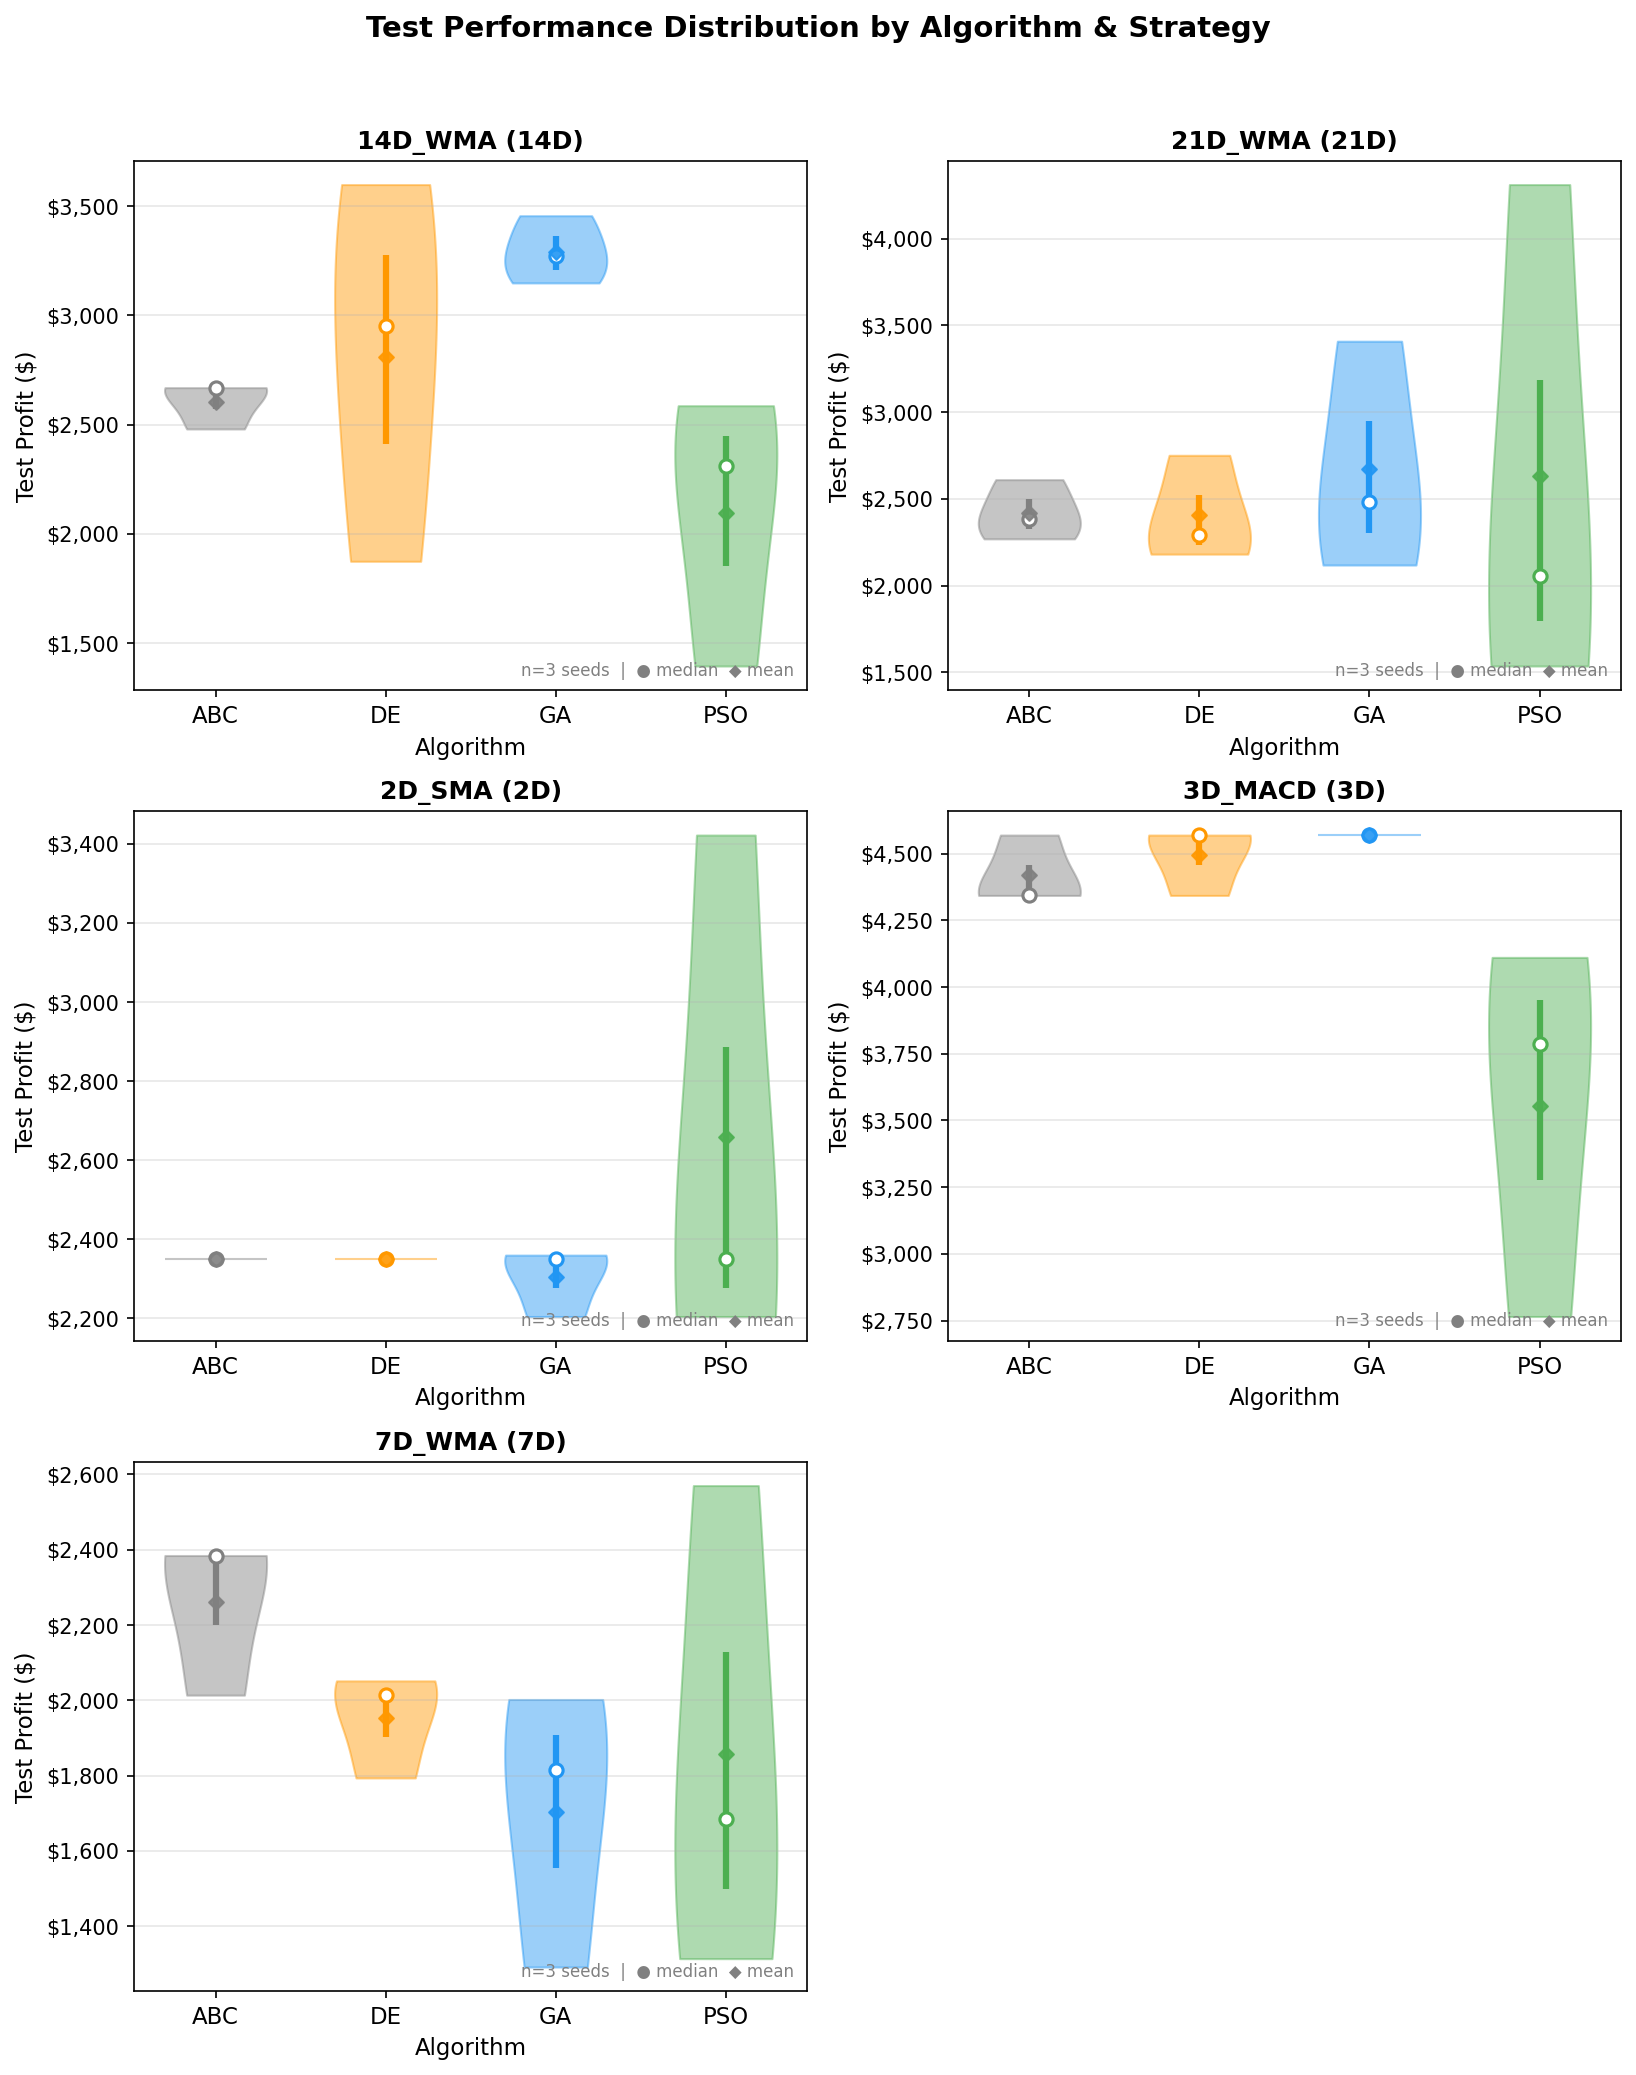
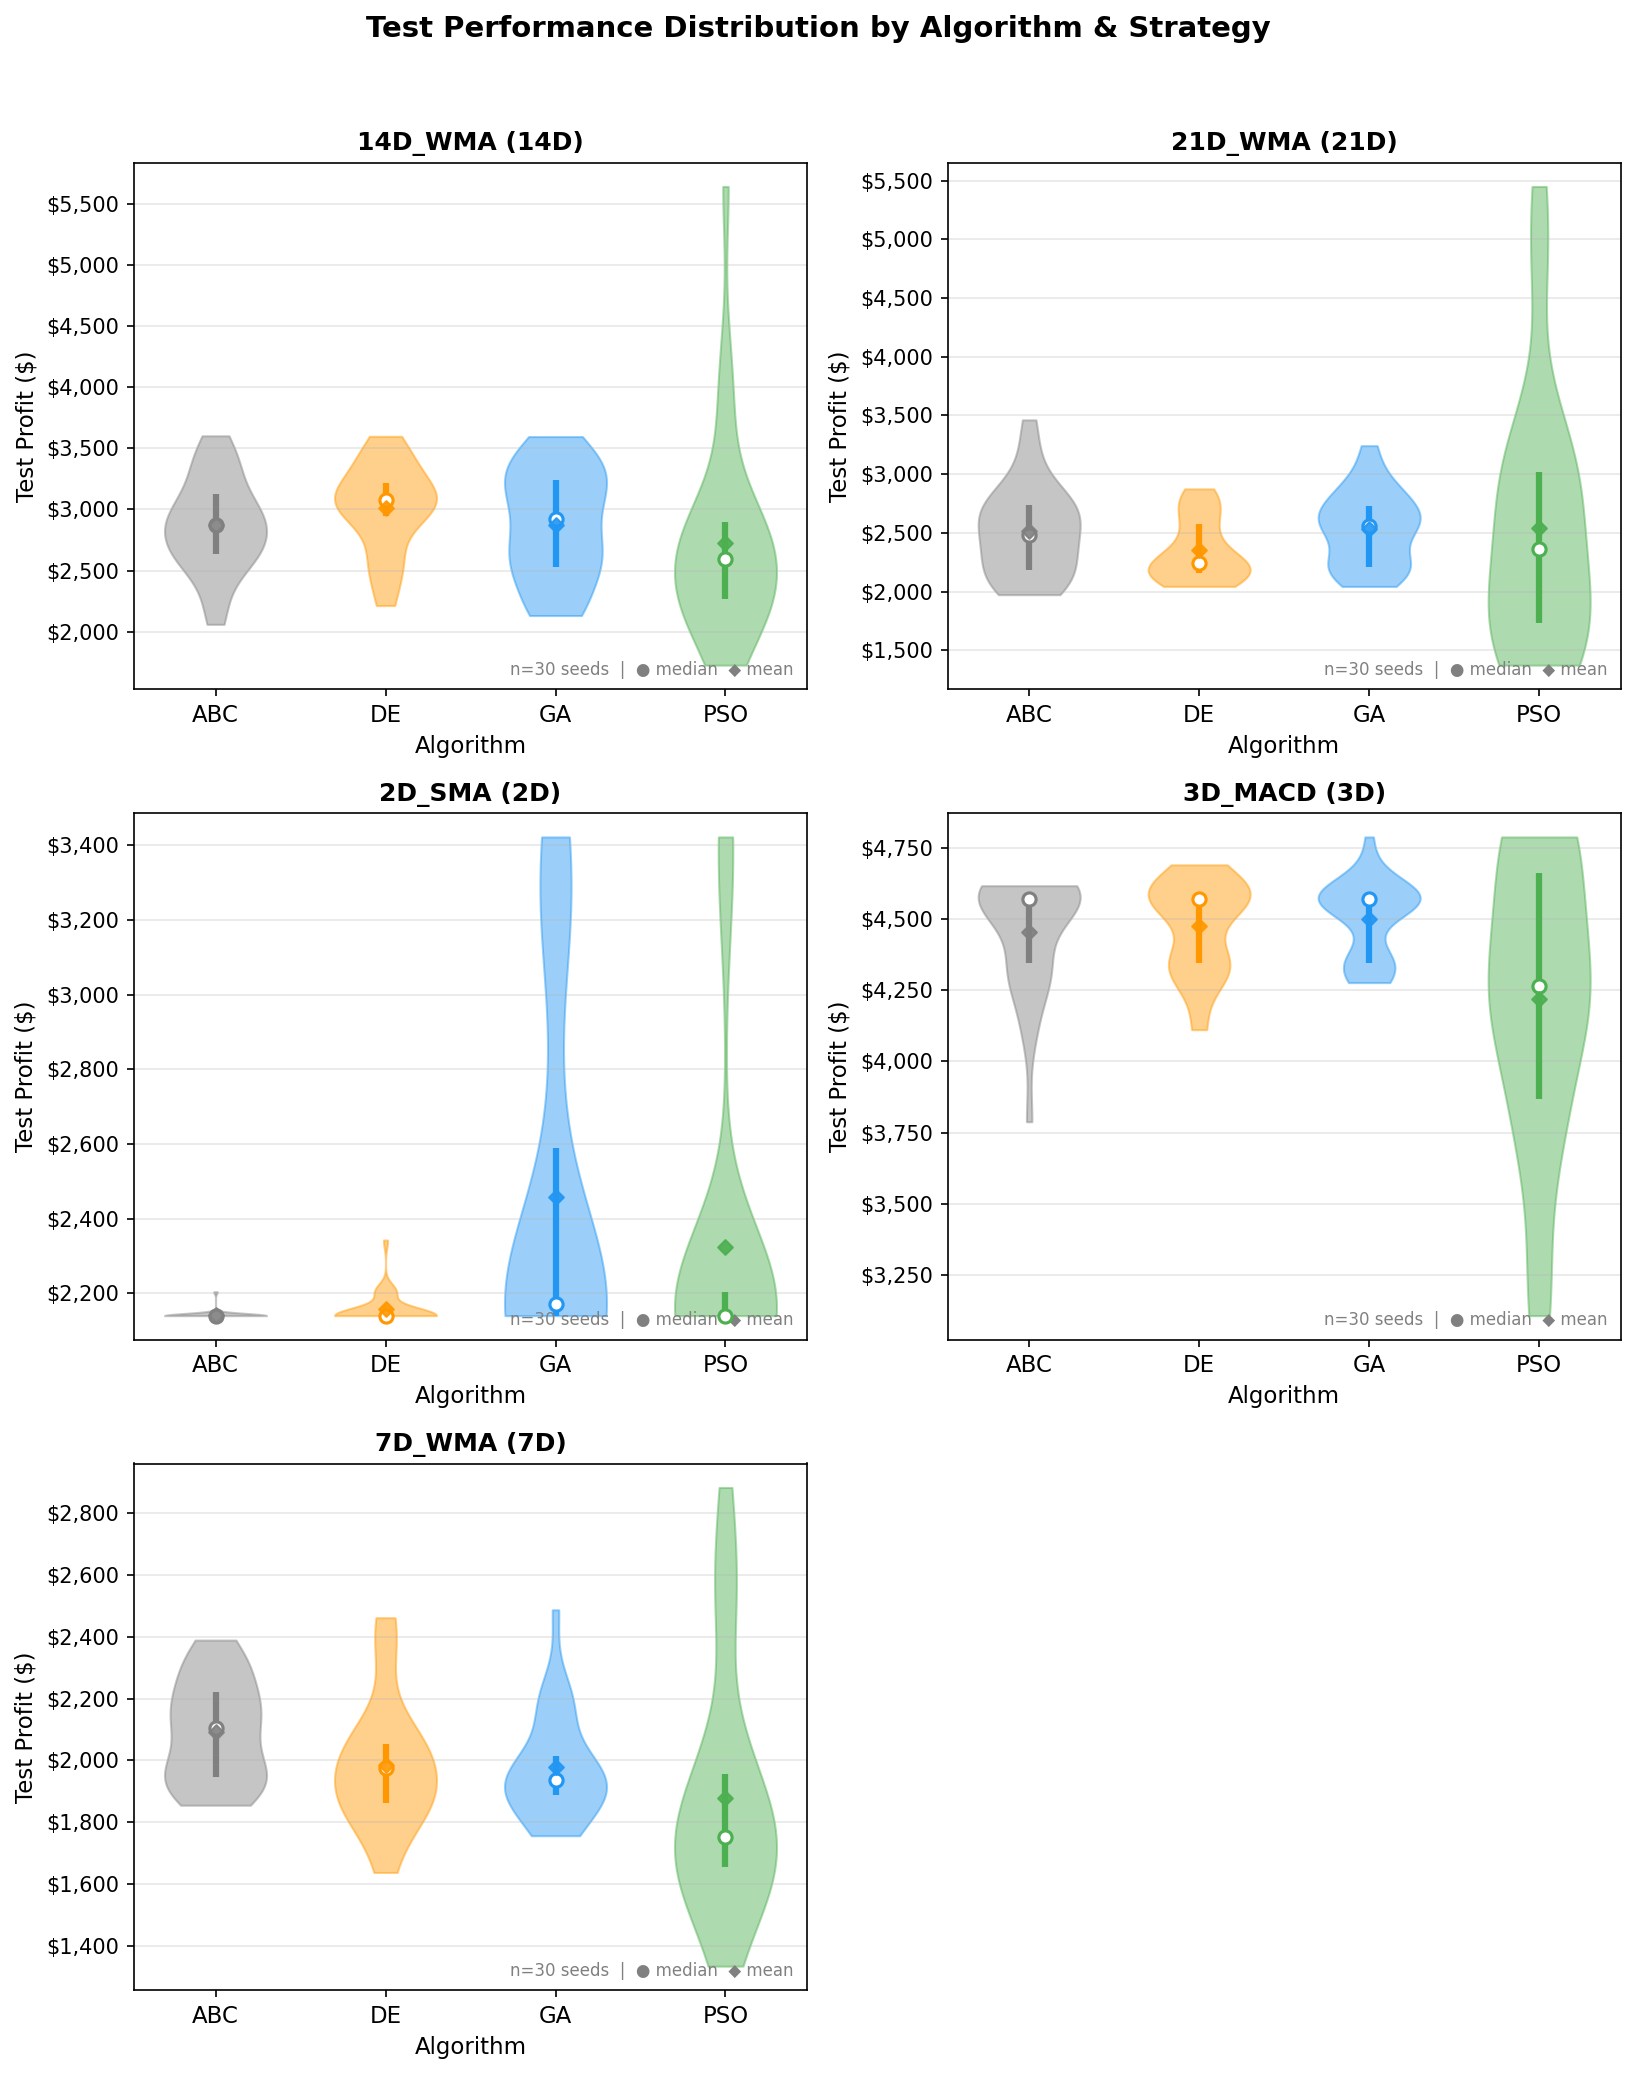
made violin plots have a fixed scale

diff --git a/visualisations/comparison_plots.py b/visualisations/comparison_plots.py
@@ -327,9 +327,6 @@ def plot_algo_same_dimension(results, strategies, algorithms):
 # ════════════════════════════════════════════════════════════════════════
 def plot_boxplot(results):
 
-    import numpy as np
-    import matplotlib.pyplot as plt
-
     strategies = ["2D_SMA", "3D_MACD", "7D_WMA", "14D_WMA"]
     algorithms = ["GA", "DE", "PSO", "ABC"]
 
@@ -570,6 +567,7 @@ def plot_violin(results, strategies, algorithms):
         "Test Performance Distribution by Algorithm & Strategy",
         fontsize=14, fontweight='bold', y=1.02
     )
+   
 
     for i, strat in enumerate(strategies):
         ax = axes[i]
@@ -649,6 +647,253 @@ def plot_violin(results, strategies, algorithms):
 
     fig.tight_layout()
     _save(fig, 'plot11_violin_test_performance.png')
+
+def plot_violin_fixed_limits(results, strategies, algorithms):
+
+    n_strats = len(strategies)
+    cols = 2
+    rows = (n_strats + 1) // 2
+
+    fig, axes = plt.subplots(rows, cols, figsize=(11, 4.5 * rows), sharey=True)
+    axes = axes.flatten()
+
+    fig.suptitle(
+        "Test Performance Distribution by Algorithm & Strategy",
+        fontsize=14, fontweight='bold', y=1.02
+    )
+    all_scores = []
+
+    for strat in strategies:
+        for algo in algorithms:
+            key = (strat, algo)
+            scores = results.get(key, {}).get('test_all', [])
+            if len(scores) > 0:
+                all_scores.extend(scores)
+
+    y_min = min(all_scores)
+    y_max = max(all_scores)
+    
+    padding = (y_max - y_min) * 0.05
+    y_limit_lower = y_min - padding
+    y_limit_upper = y_max + padding
+
+    for i, strat in enumerate(strategies):
+        ax = axes[i]
+        ax.set_title(f"{strat} ({DIMS[strat]}D)", fontsize=12, fontweight='bold')
+        ax.set_ylabel("Test Profit ($)", fontsize=11)
+        ax.set_xlabel("Algorithm", fontsize=11)
+
+        data      = []
+        positions = []
+        colours   = []
+        labels    = []
+
+        for j, algo in enumerate(algorithms):
+            key    = (strat, algo)
+            scores = results.get(key, {}).get('test_all', [])
+
+            if len(scores) < 2:
+                continue
+
+            data.append(scores)
+            positions.append(j)
+            colours.append(ALGO_COLOURS.get(algo, 'gray'))
+            labels.append(algo)
+
+        if not data:
+            ax.set_axis_off()
+            continue
+
+        parts = ax.violinplot(
+            data,
+            positions=positions,
+            widths=0.6,
+            showmeans=False,
+            showmedians=False,
+            showextrema=False,
+        )
+
+        for k, pc in enumerate(parts['bodies']):
+            pc.set_facecolor(colours[k])
+            pc.set_edgecolor(colours[k])
+            pc.set_alpha(0.45)
+
+        for k, (d, pos) in enumerate(zip(data, positions)):
+            q1, med, q3 = np.percentile(d, [25, 50, 75])
+
+            # IQR bar
+            ax.vlines(pos, q1, q3, color=colours[k], linewidth=3, zorder=3)
+
+            # median dot (white fill, coloured edge)
+            ax.scatter(pos, med,
+                       color='white', edgecolors=colours[k],
+                       s=40, zorder=4, linewidths=1.5)
+
+            # mean diamond
+            ax.scatter(pos, np.mean(d),
+                       color=colours[k], marker='D',
+                       s=25, zorder=4, alpha=0.9)
+
+        ax.set_xticks(positions)
+        ax.set_xticklabels(labels, fontsize=11)
+        
+        ax.set_ylim(y_limit_lower, y_limit_upper) 
+        
+        ax.yaxis.set_major_formatter(
+            plt.FuncFormatter(lambda v, _: f'${v:,.0f}')
+        )
+        ax.grid(True, axis='y', alpha=0.3)
+
+        n_seeds = len(data[0]) if data else 0
+        ax.text(
+            0.98, 0.02,
+            f"n={n_seeds} seeds  |  ● median  ◆ mean",
+            transform=ax.transAxes,
+            fontsize=8, color='gray',
+            ha='right', va='bottom'
+        )
+
+    for j in range(n_strats, len(axes)):
+        fig.delaxes(axes[j])
+
+    fig.tight_layout()
+    _save(fig, 'plot12_violin_test_performance_fixed_limits.png')
+
+def plot_violin_percentile_scaled(results, strategies, algorithms):
+
+    n_strats = len(strategies)
+    cols = 2
+    rows = (n_strats + 1) // 2
+
+    fig, axes = plt.subplots(
+        rows, cols,
+        figsize=(11, 4.5 * rows),
+        sharey=True
+    )
+    axes = axes.flatten()
+
+    fig.suptitle(
+        "Test Performance Distribution by Algorithm & Strategy",
+        fontsize=14,
+        fontweight='bold',
+        y=1.02
+    )
+
+    all_scores = []
+
+    for strat in strategies:
+        for algo in algorithms:
+            key = (strat, algo)
+            scores = results.get(key, {}).get('test_all', [])
+            if len(scores) > 0:
+                all_scores.extend(scores)
+
+    
+    y_min = np.percentile(all_scores, 2)
+    y_max = np.percentile(all_scores, 98)
+
+    padding = (y_max - y_min) * 0.05
+    y_limit_lower = y_min - padding
+    y_limit_upper = y_max + padding
+
+    
+    for i, strat in enumerate(strategies):
+        ax = axes[i]
+
+        ax.set_title(f"{strat} ({DIMS[strat]}D)", fontsize=12, fontweight='bold')
+        ax.set_ylabel("Test Profit ($)", fontsize=11)
+        ax.set_xlabel("Algorithm", fontsize=11)
+
+        data = []
+        positions = []
+        colours = []
+        labels = []
+
+        for j, algo in enumerate(algorithms):
+            key = (strat, algo)
+            scores = results.get(key, {}).get('test_all', [])
+
+            if len(scores) < 2:
+                continue
+
+            data.append(scores)
+            positions.append(j)
+            colours.append(ALGO_COLOURS.get(algo, 'gray'))
+            labels.append(algo)
+
+        if not data:
+            ax.set_axis_off()
+            continue
+
+        parts = ax.violinplot(
+            data,
+            positions=positions,
+            widths=0.6,
+            showmeans=False,
+            showmedians=False,
+            showextrema=False,
+        )
+
+        for k, pc in enumerate(parts['bodies']):
+            pc.set_facecolor(colours[k])
+            pc.set_edgecolor(colours[k])
+            pc.set_alpha(0.45)
+
+        for k, (d, pos) in enumerate(zip(data, positions)):
+            q1, med, q3 = np.percentile(d, [25, 50, 75])
+
+            # IQR bar
+            ax.vlines(pos, q1, q3, color=colours[k], linewidth=3, zorder=3)
+
+            # median
+            ax.scatter(
+                pos, med,
+                color='white',
+                edgecolors=colours[k],
+                s=40,
+                zorder=4,
+                linewidths=1.5
+            )
+
+            # mean
+            ax.scatter(
+                pos, np.mean(d),
+                color=colours[k],
+                marker='D',
+                s=25,
+                zorder=4,
+                alpha=0.9
+            )
+
+        ax.set_xticks(positions)
+        ax.set_xticklabels(labels, fontsize=11)
+
+       
+        ax.set_ylim(y_limit_lower, y_limit_upper)
+
+        ax.yaxis.set_major_formatter(
+            plt.FuncFormatter(lambda v, _: f'${v:,.0f}')
+        )
+
+        ax.grid(True, axis='y', alpha=0.3)
+
+        n_seeds = len(data[0]) if data else 0
+        ax.text(
+            0.98, 0.02,
+            f"n={n_seeds} seeds  |  ● median  ◆ mean",
+            transform=ax.transAxes,
+            fontsize=8,
+            color='gray',
+            ha='right',
+            va='bottom'
+        )
+
+    # remove unused subplots
+    for j in range(n_strats, len(axes)):
+        fig.delaxes(axes[j])
+
+    fig.tight_layout()
+    _save(fig, 'plot13_violin_test_performance_percentiled_scaled.png')
 # ════════════════════════════════════════════════════════════════════════
 # Master function 
 # ════════════════════════════════════════════════════════════════════════
@@ -705,4 +950,8 @@ def generate_all_plots(results, prices_train, prices_test, convergence_data=None
  
     print("  Plot 10: Violin plots...")
     plot_violin(results, strategies, algorithms)
+    print("  Plot 11: Violin plots with fixed y-limits...")
+    plot_violin_fixed_limits(results, strategies, algorithms)
+    print("  Plot 12: Violin plots with percentile-based y-limits...")
+    plot_violin_percentile_scaled(results, strategies, algorithms)
     print("\nAll plots saved to visualisations/")
